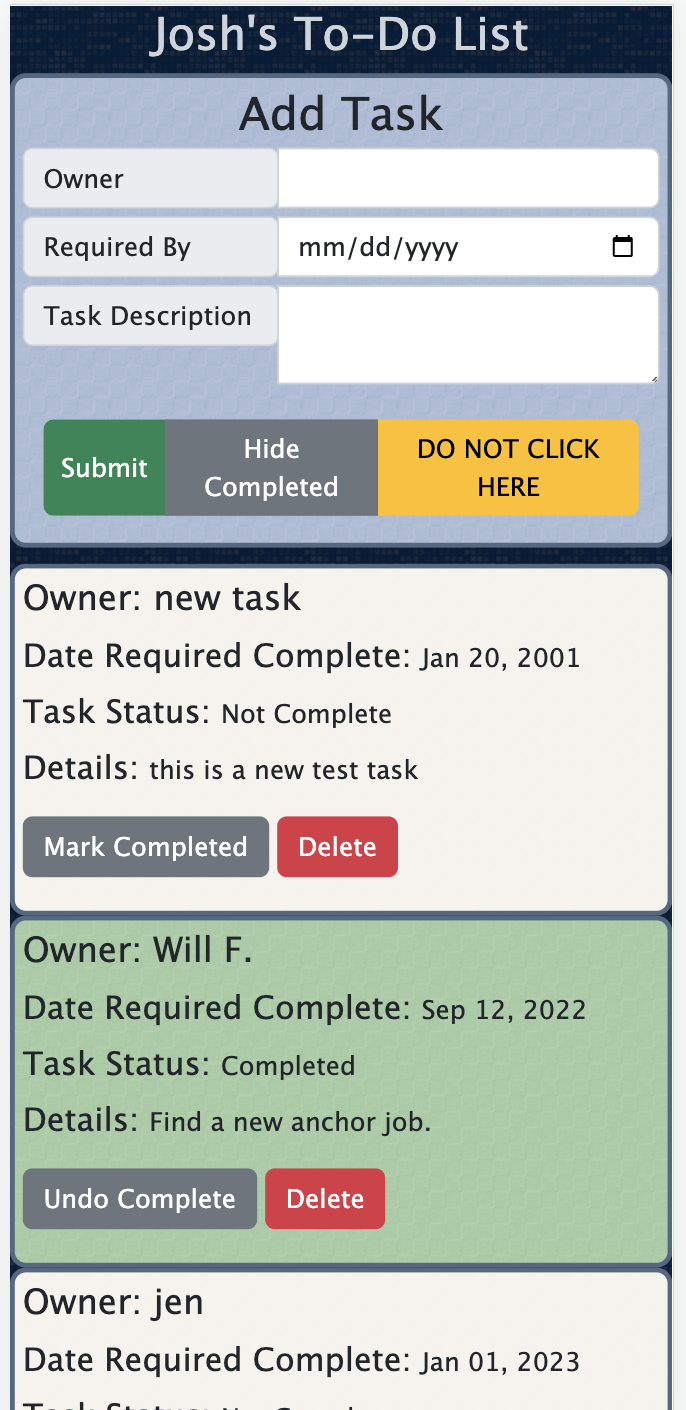
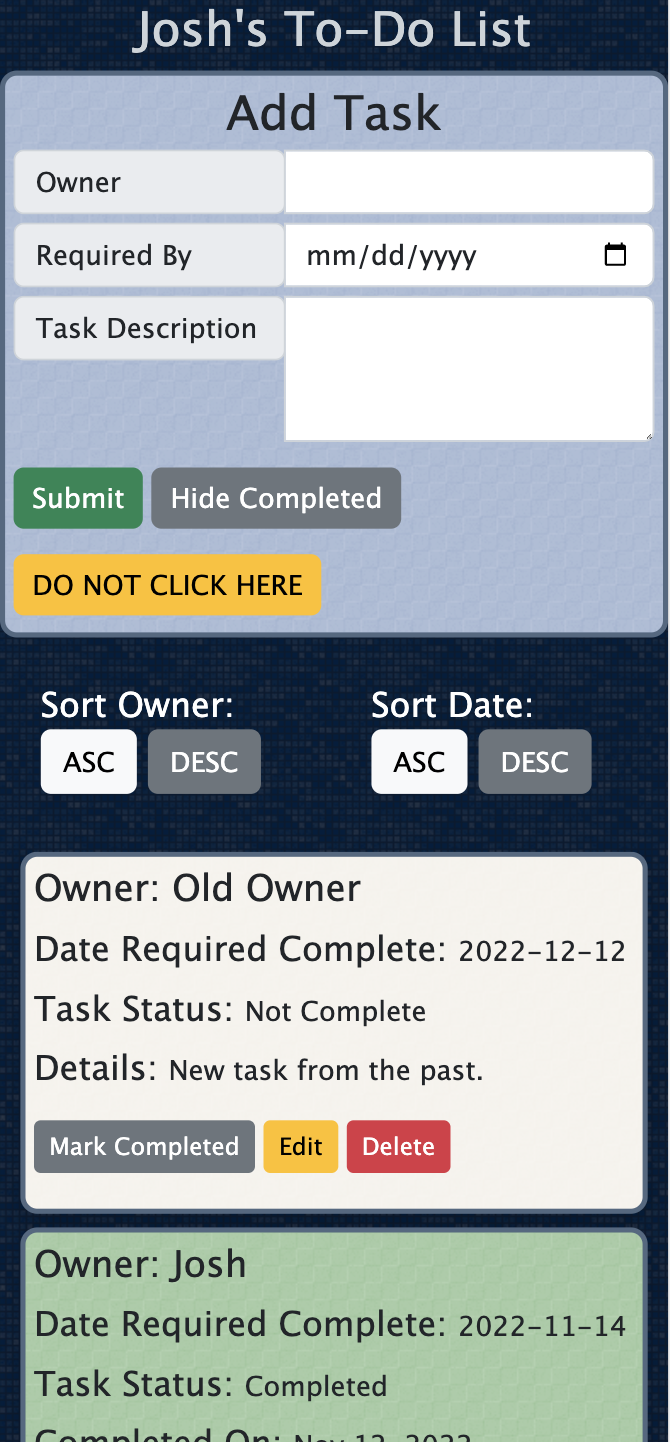
edited code comments

diff --git a/server/public/scripts/client.js b/server/public/scripts/client.js
@@ -1,12 +1,11 @@
 $(document).ready(onReady);
 
 let showComplete = true;
-let sortOrder = 'dateAsc';
-let mode = 'new';
+let sortOrder = 'dateAsc'; // default sort order, switch statement on router uses this to determine query SORT BY
+let mode = 'new'; // two modes, 'new' and 'edit', sets default to new
 let editStatus;
 
 function onReady() {
-    console.log('jquery loaded');
     getTasks();
     clickListeners();
 }
@@ -26,30 +25,29 @@ function clickListeners() {
     $('#taskListDiv').on('click', '.editButton', editTask);
     $('#hideButton').on('click', hideCompleted);
     $('#showButton').on('click', showCompleted);
+    $('#cancelButton').on('click', getTasks)
     $('.sort-button').on('click', sortTasks);
-
-    // testing date field to verify data for sql
-    // $('#dateInput').on('change', function () {console.log($(this).val());})
 };
 
-function showCompleted() {
+function showCompleted() { // used for filtering out completed tasks
     $('.onHide').show();
     $('.onShow').hide();
     showComplete = true;
 };
 
-function hideCompleted() {
+function hideCompleted() { // used for filtering out completed tasks
     $('.onHide').hide();
     $('.onShow').show();
     showComplete = false;
 };
 
-function sortTasks() {
+function sortTasks() { // sets query SORT BY variable and sends to server via getTasks
     sortOrder = $(this).data('id');
     getTasks();
 }
 
 // Sets page up for editing task
+// hides all tasks, sets input fields to the values of task being edited
 function editTask() {
     $('#ownerInput').val($(this).parent().siblings(':first-child').data('owner'));
     $('#dateInput').val($(this).parent().siblings(':nth-child(2)').data('date'));
@@ -59,11 +57,13 @@ function editTask() {
     $('.taskItem').hide();
     $('.hide').show();
     $('.show').hide();
+    $('#cancelButton').show();
+    $('#hideButton').hide();
+    $('#showButton').hide();
 }
 
 // GET tasks from database
 function getTasks() {
-    // console.log('in getTasks');
     $.ajax({
         method: 'GET',
         url: '/tasks/' + sortOrder
@@ -76,8 +76,8 @@ function getTasks() {
 
 // POST new task to sever/database
 function postTask() {
-    // console.log('in postTask');
-    $('.taskItem').show();
+
+    // sets input values to object variable for sending to server
     let newTask = {
         owner: $('#ownerInput').val(),
         date: $('#dateInput').val(),
@@ -86,18 +86,14 @@ function postTask() {
     };
 
 
-
+// checks if we are in edit task mode. If we are,
+// do a PUT API instead
     if (mode === 'edit') {
-        $('#taskListDiv').show();
         $.ajax({
-            method: 'POST',
+            method: 'PUT',
             url: '/tasks/edit/' + editStatus,
             data: newTask
         }).then(function(response) {
-            // console.log('post success response', response);
-            $('#ownerInput').val('');
-            $('#dateInput').val('');
-            $('#taskDescriptionInput').val('');
             getTasks();
         }).catch(function (error) {
             alert('error POSTing', error);
@@ -108,7 +104,6 @@ function postTask() {
             url: '/tasks',
             data: newTask
         }).then(function(response) {
-            // console.log('post success response', response);
             $('#ownerInput').val('');
             $('#dateInput').val('');
             $('#taskDescriptionInput').val('');
@@ -133,6 +128,7 @@ function completeTask() {
         dateStamp = mm + '/' + dd + '/' + yyyy;
     };
 
+    // object to send to server
     let postObject = {
         isComplete: isComplete,
         dateStamp: dateStamp
@@ -181,10 +177,17 @@ function deleteTask() {
 };
 
 function renderTable(tasks) {
+    // resets elements and mode to match initial page load
     $('#taskListDiv').empty();
+    $('#ownerInput').val('');
+    $('#dateInput').val('');
+    $('#taskDescriptionInput').val('');
+    $('#cancelButton').hide();
+    $('#hideButton').show();
+    mode = 'new';
 
+    // renders a new div for each task item
     for (let task of tasks) {
-        // console.log('task object', task);
         $('#taskListDiv').append(`
             <div class="shadow mb-2 taskItem ${task.is_complete === true ? 'onHide' : ''}">
                 <h4 data-owner="${task.owner}">Owner: ${task.owner}</h4>
@@ -193,9 +196,9 @@ function renderTable(tasks) {
                 <section class="${task.completed_on ? 'show' : 'hide'}"><span class="lead">Completed On: </span>${task.completed_on}</section>
                 <section data-details="${task.details}"><span class="lead">Details: </span>${task.details}</section>
                 <p class="mt-3 mb-3">
-                    <button class="btn btn-secondary completeButton" data-id="${task.id}" data-complete="${task.is_complete}">${task.is_complete === true ? 'Undo Complete' : 'Mark Completed'}</button>
-                    <button class="btn btn-warning editButton" data-id=${task.id}>Edit</button>
-                    <button class="btn btn-danger deleteButton" data-id="${task.id}">Delete</button>
+                    <button class="btn btn-secondary btn-sm completeButton" data-id="${task.id}" data-complete="${task.is_complete}">${task.is_complete === true ? 'Undo Complete' : 'Mark Completed'}</button>
+                    <button class="btn btn-warning btn-sm editButton" data-id=${task.id}>Edit</button>
+                    <button class="btn btn-danger btn-sm deleteButton" data-id="${task.id}">Delete</button>
                 </p>
             </div>            
         `);
@@ -203,6 +206,6 @@ function renderTable(tasks) {
 
     $('.hide').hide();
     $('.show').show();
-    (showComplete ? showCompleted() : hideCompleted());
+    (showComplete ? showCompleted() : hideCompleted()); // hides or shows completed each time it renders to match users selected preference
 
 };

diff --git a/server/routes/task_router.js b/server/routes/task_router.js
@@ -15,21 +15,12 @@ const pool = new Pool({
   idleTimeoutMillis: 30000 
 });
 
-// not required, but useful for debugging:
-pool.on('connect', () => {
-  console.log('postgresql is connected!');
-});
-
-pool.on('error', (error) => {
-  console.log('error in postgres pool.', error);
-});
-
-
 // GET/SELECT all items from tasks table
 taskRouter.get('/:sortOrder', (req,res) =>{
   let sortOrder = req.params.sortOrder;
   let queryText = '';
   
+  //switch statement determines query for sort order user selected
   switch (sortOrder) {
     case 'dateAsc':
       queryText = `SELECT "owner", to_char("date", 'YYYY-MM-DD') AS "f_date", "details", "is_complete", "id", to_char("completed_on", 'Mon DD, YYYY') AS "completed_on" FROM "tasks" ORDER BY "date", "owner";`;
@@ -45,10 +36,8 @@ taskRouter.get('/:sortOrder', (req,res) =>{
       break;
   };
 
-
-
+  // query to SELECT data from DB
   pool.query(queryText).then((response) =>{
-    // console.log('get successful');
     res.send(response);
   }).catch((error) => {
     alert('error GETting', error);
@@ -60,9 +49,9 @@ taskRouter.get('/:sortOrder', (req,res) =>{
 taskRouter.post('/', (req, res) => {
   let queryText = `INSERT INTO "tasks" ("owner", "date", "details", "is_complete")
     VALUES ($1, $2, $3, $4);`;
-  // console.log('req.body', req.body);
-  pool.query(queryText, [req.body.owner, req.body.date, req.body.details, req.body.is_complete])
-    .then((response) => {
+
+    pool.query(queryText, [req.body.owner, req.body.date, req.body.details, req.body.is_complete])
+    .then(() => {
       res.sendStatus(200);
     }).catch((error) => {
       alert('error POSTing', error);
@@ -70,12 +59,12 @@ taskRouter.post('/', (req, res) => {
     });
 });
 
-taskRouter.post('/edit/:id', (req, res) => {
+// edit mode route from client.js postTask
+taskRouter.put('/edit/:id', (req, res) => {
   let taskId = req.params.id;
   let queryText = `UPDATE "tasks" SET "owner"=$1, "date"=$2, "details"=$3 WHERE "id"=$4`;
-  // console.log('req.body', req.body);
   pool.query(queryText, [req.body.owner, req.body.date, req.body.details, taskId])
-    .then((response) => {
+    .then(() => {
       res.sendStatus(200);
     }).catch((error) => {
       alert('error POSTing', error);
@@ -90,7 +79,6 @@ taskRouter.put('/complete/:id', (req, res) => {
   // assigns isComplete opposite value of input to make change in database
   let isComplete = (req.body.isComplete === 'true' ? 'FALSE' : 'TRUE');
   let completedOn = (req.body.dateStamp);
-  // console.log('req.body:', req.body);
   let queryText = `UPDATE "tasks" SET "is_complete"=$1, "completed_on"=$2 WHERE "id"=$3;`;
 
   pool.query(queryText, [isComplete, completedOn, taskID]).then(() => {

diff --git a/server/public/index.html b/server/public/index.html
@@ -46,16 +46,17 @@
             <button class="btn btn-success" id="submitButton">Submit</button>
             <button class="btn btn-secondary onHide" id="hideButton">Hide Completed</button>
             <button class="btn btn-secondary onShow" id="showButton">Show Completed</button>
+            <button class="btn btn-secondary" id="cancelButton">Cancel Edit</button>
             <a href="https://www.youtube.com/watch?v=eBGIQ7ZuuiU" class="btn btn-med btn-warning">DO NOT CLICK HERE</a>
         </div>
     </div>
     
-    <div class="d-flex justify-content-center m-3 p-1" id="filterButtonDiv">
-        <p class="button-group text-white lead m-3">Sort by Owner:
+    <div class="d-flex justify-content-center m-1 p-1" id="filterButtonDiv">
+        <p class="show button-group text-white lead m-3">Sort Owner:
             <button class="btn btn-light sort-button" data-id="ownerAsc">ASC</button>
             <button class="btn btn-secondary sort-button" data-id="ownerDesc">DESC</button>
         </p>
-        <p class="button-group text-white lead m-3">Sort by Date:
+        <p class="show button-group text-white lead m-3">Sort Date:
             <button class="btn btn-light sort-button" data-id="dateAsc">ASC</button>
             <button class="btn btn-secondary sort-button" data-id="dateDesc">DESC</button>
         </p>

diff --git a/TODO.md b/TODO.md
@@ -41,6 +41,8 @@ Stretch and Misc items:
     [x] add date stamp when completed
     [] research query params to understand....
     [x] sort by asc/desc options
-    [] add edit function
+    [x] add edit function
+    [x] cancel edit simplify
     [] move stuff to modules
-    
+    [x] add better code comments
+    [] update readme again
